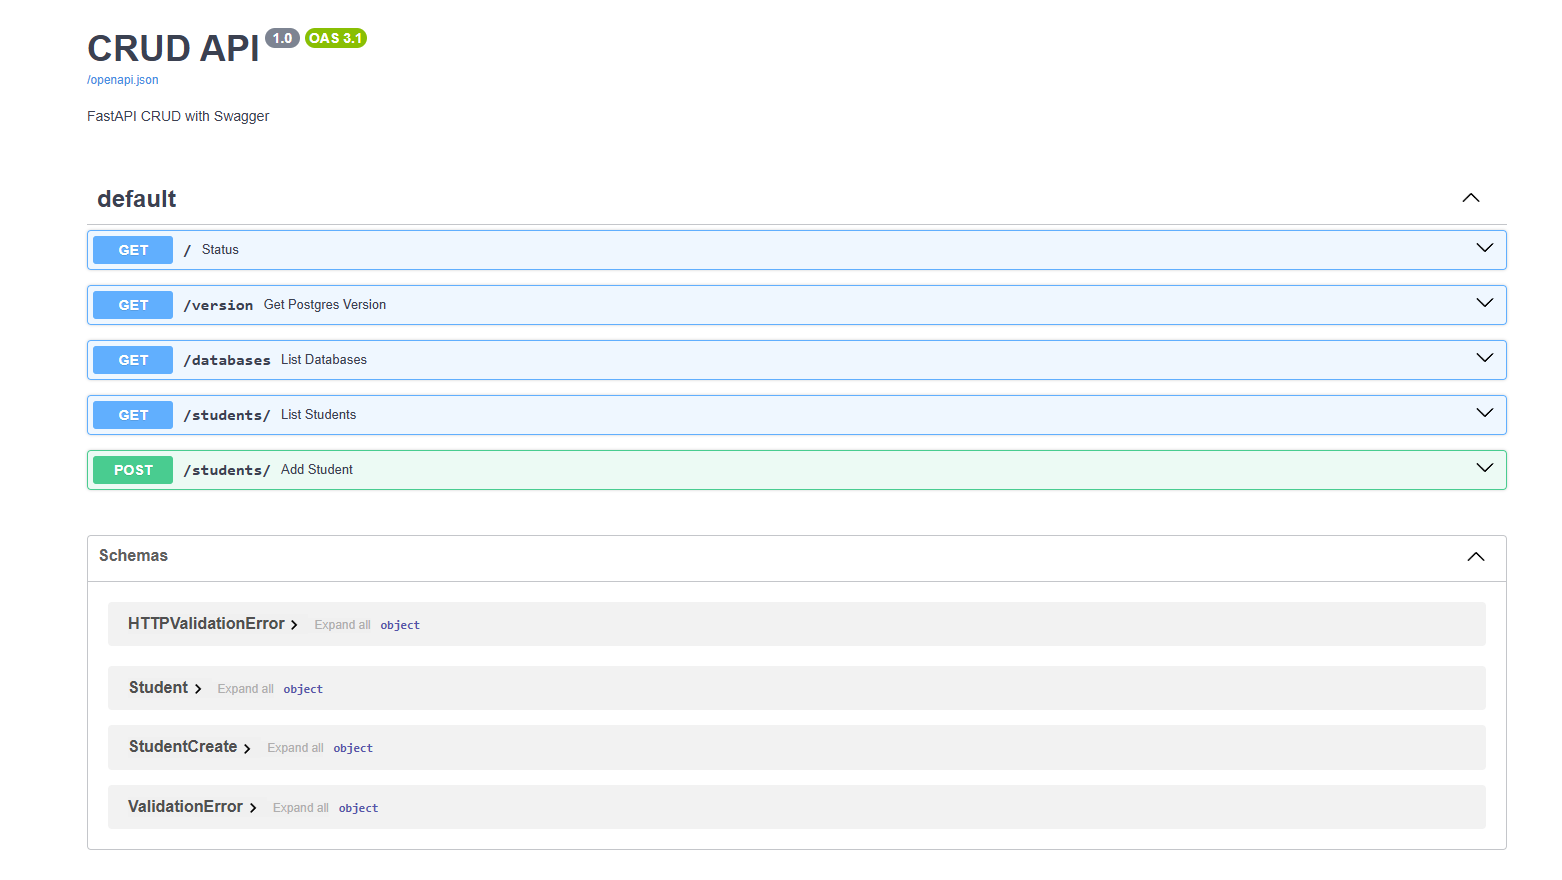
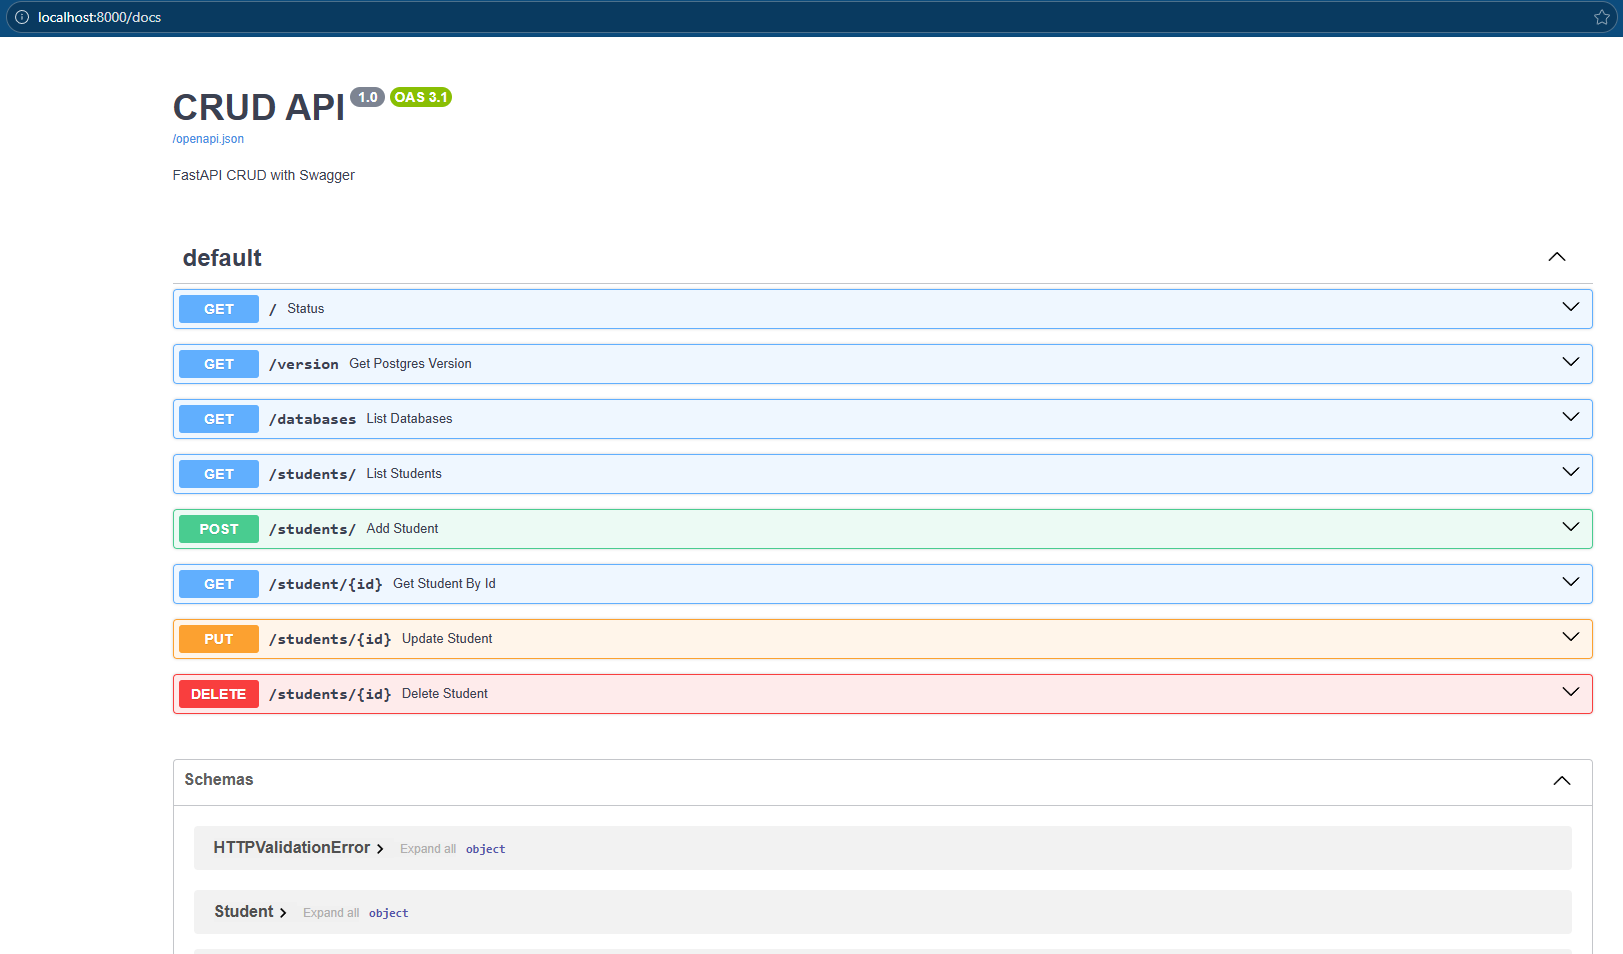
Updated for docker

diff --git a/core/database.py b/core/database.py
@@ -2,9 +2,17 @@
 from sqlalchemy import create_engine
 from sqlalchemy.ext.declarative import declarative_base
 from sqlalchemy.orm import sessionmaker
+import os
 
 # Connection string: adjust user, password, host, port, db name
-DATABASE_URL = "postgresql://postgres:postgres@localhost:5432/mydatabase"
+ #DATABASE_URL = "postgresql://postgres:postgres@localhost:5432/mydatabase"
+
+DATABASE_URL = os.getenv(
+    "DATABASE_URL",
+    "postgresql://postgres:postgres@localhost:5432/mydatabase"
+)
+
+print("DATABASE_URL =", DATABASE_URL)
 
 # Engine: manages connections to the database
 engine = create_engine(DATABASE_URL)

diff --git a/core/crud.py b/core/crud.py
@@ -1,6 +1,6 @@
 from sqlalchemy.orm import Session
 from models.models import Student
-from schemas.schemas import StudentCreate
+from schemas.schemas import StudentCreate, StudentUpdate
 
 def get_students(db: Session):
     return db.query(Student).all()
@@ -15,7 +15,7 @@ def create_student(db: Session, student: StudentCreate):
     db.refresh(db_student)
     return db_student
 
-def update_student(db: Session, id: int, student_data: update_student):
+def update_student(db: Session, id: int, student_data: StudentUpdate):
     student = db.query(Student).filter(Student.id == id).first()
 
     if not student:

diff --git a/schemas/schemas.py b/schemas/schemas.py
@@ -1,4 +1,3 @@
-
 from typing import Optional
 from pydantic import BaseModel
 
@@ -8,17 +7,22 @@ class StudentBase(BaseModel):
     age: int
     grade: str
 
+
 # For creating a student 
 class StudentCreate(StudentBase):
     pass
+
 
 # For returning a student (includes ID)
 class Student(StudentBase):
     id: int
 
-    class Config:
-        orm_mode = True
+    model_config = {
+        "from_attributes": True
+    }
 
+
+# For partial updates
 class StudentUpdate(BaseModel):
     name: Optional[str] = None
     age: Optional[int] = None

diff --git a/main.py b/main.py
@@ -1,3 +1,6 @@
+from dotenv import load_dotenv
+load_dotenv()
+
 from fastapi import FastAPI, HTTPException, Depends   
 from pydantic import BaseModel
 
@@ -7,6 +10,9 @@ from core import crud
 from core.database import Base, SessionLocal,engine
 from schemas import schemas
 from models.models import Student
+
+
+
 
 Base.metadata.create_all(bind=engine)
 
